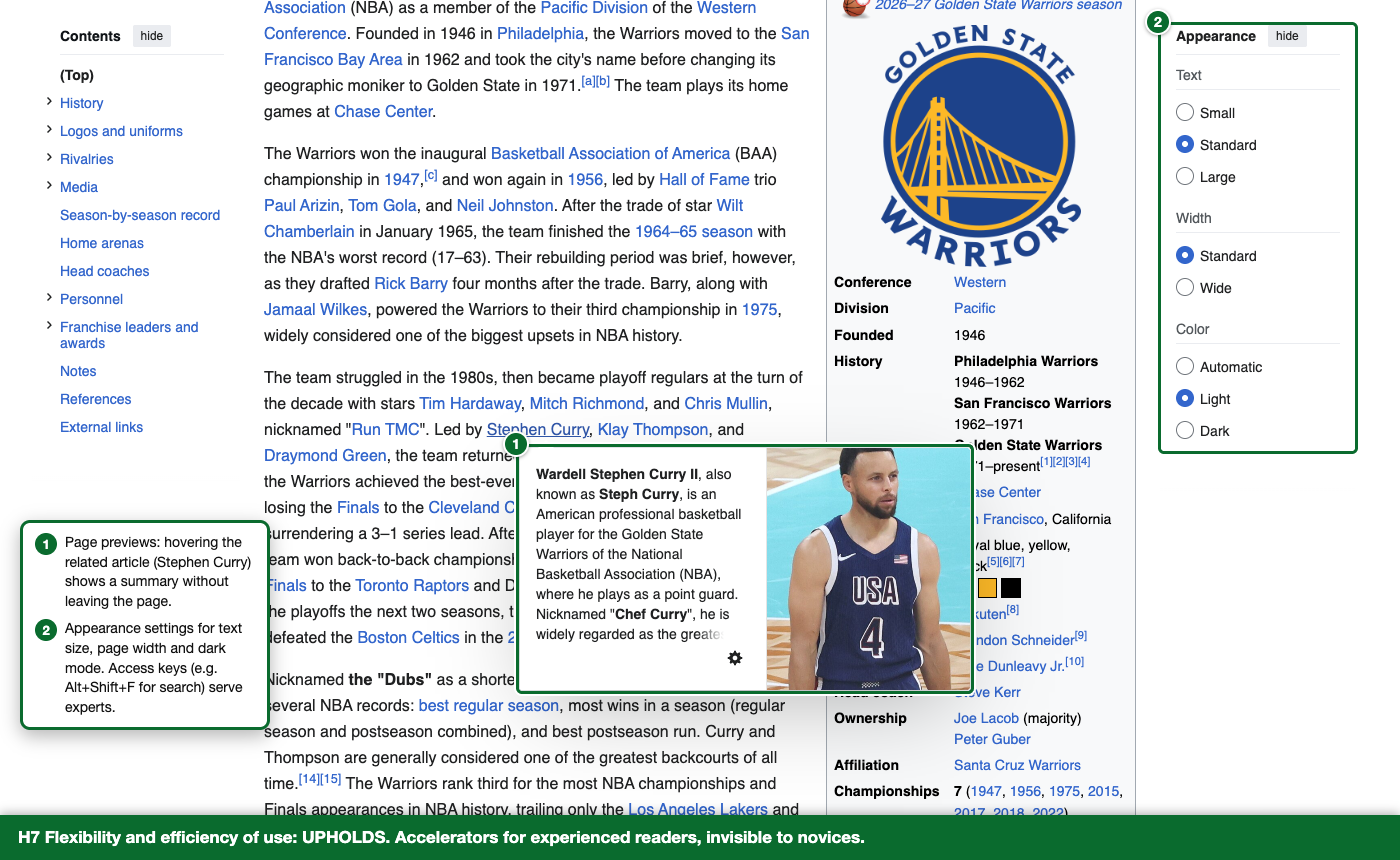
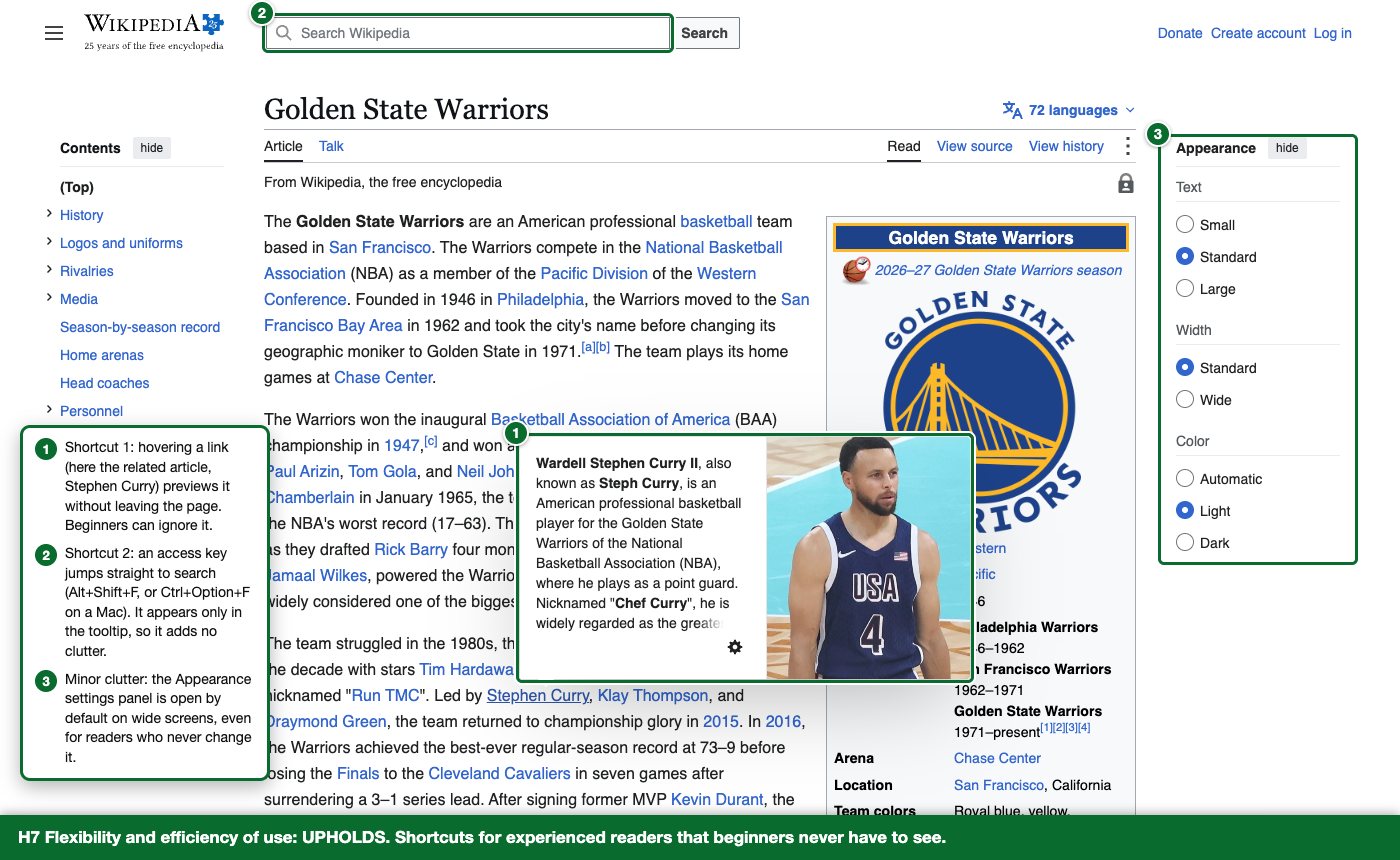
Re-take H7 screenshot to match the course definition
The course defines flexibility and efficiency as shortcuts for experienced
users that do not clutter things for beginners. The screenshot now marks
page previews and the search access key, and flags the always-open
Appearance panel as minor clutter instead of crediting it.

diff --git a/tools/capture_evaluation.py b/tools/capture_evaluation.py
@@ -176,15 +176,15 @@ def h6(b):
 @register("h7")
 def h7(b):
     pg = open_page(b, WP + "Golden_State_Warriors")
-    pg.evaluate("[...document.querySelectorAll('#mw-content-text a')].find(a => a.textContent.trim() === 'Stephen Curry').scrollIntoView({block: 'center'})")
-    pg.wait_for_timeout(600)
+    # The Stephen Curry link is in the first screen, so the search box stays visible too.
     pg.locator("#mw-content-text a", has_text="Stephen Curry").first.hover()
     pg.wait_for_timeout(2600)
     annotate(pg, [
-        {"selector": ".mwe-popups", "label": "Page previews: hovering the related article (Stephen Curry) shows a summary without leaving the page."},
-        {"selector": "#vector-appearance-pinned-container", "pad": 2, "label": "Appearance settings for text size, page width and dark mode. Access keys (e.g. Alt+Shift+F for search) serve experts."},
-    ], "H7 Flexibility and efficiency of use: UPHOLDS. Accelerators for experienced readers, invisible to novices.", "uphold",
-        {"x": 20, "y": 520, "w": 250})
+        {"selector": ".mwe-popups", "label": "Shortcut 1: hovering a link (here the related article, Stephen Curry) previews it without leaving the page. Beginners can ignore it."},
+        {"selector": "#p-search input[type=search], #searchInput", "label": "Shortcut 2: an access key jumps straight to search (Alt+Shift+F, or Ctrl+Option+F on a Mac). It appears only in the tooltip, so it adds no clutter."},
+        {"selector": "#vector-appearance-pinned-container", "pad": 2, "label": "Minor clutter: the Appearance settings panel is open by default on wide screens, even for readers who never change it."},
+    ], "H7 Flexibility and efficiency of use: UPHOLDS. Shortcuts for experienced readers that beginners never have to see.", "uphold",
+        {"x": 20, "y": 425, "w": 250})
     shot(pg, "h7-flexibility-efficiency")
 
 
